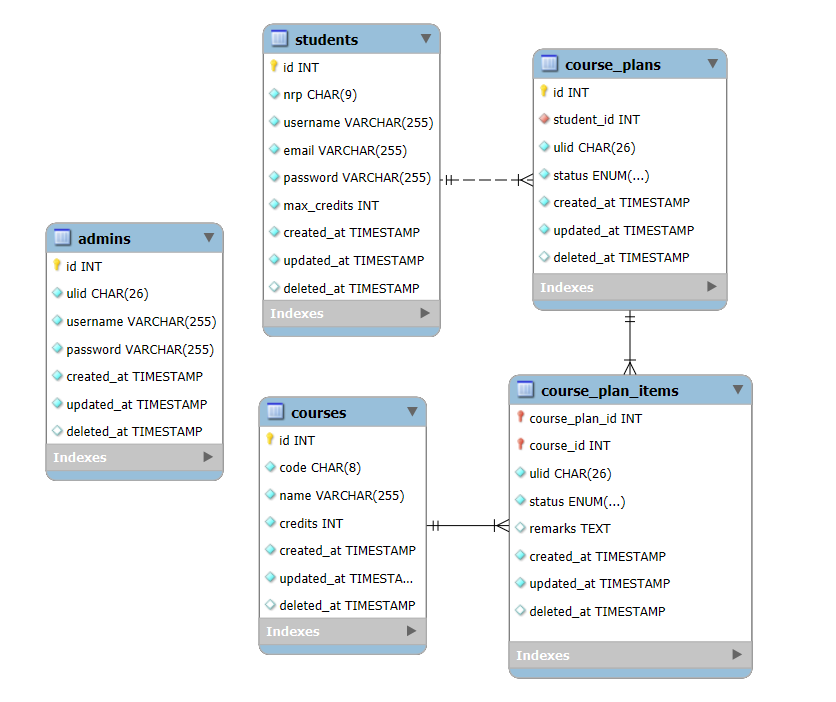
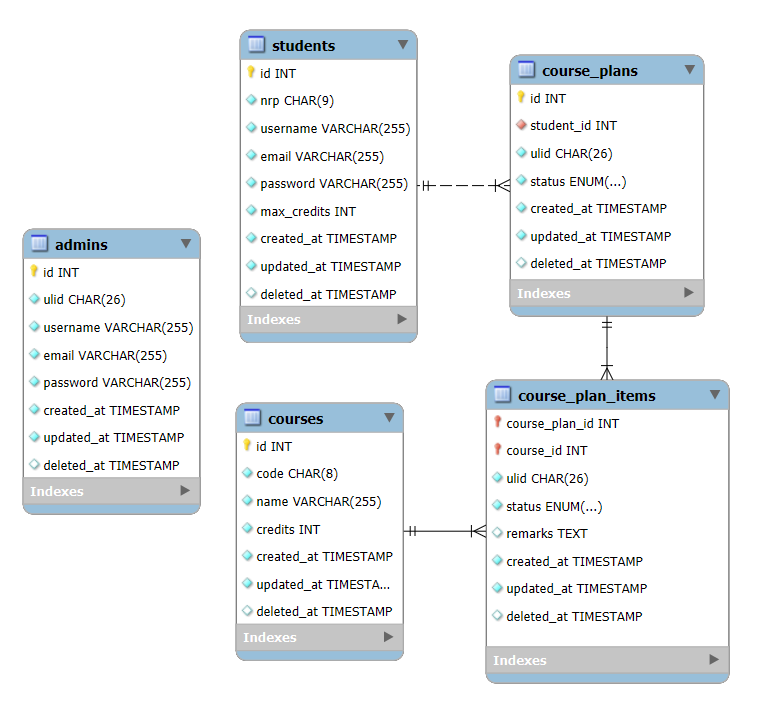
[Database] Add email for admins table

diff --git a/endpoint/dto/response/admin_response_dto.go b/endpoint/dto/response/admin_response_dto.go
@@ -1,0 +1,23 @@
+package dto
+
+import "yosimaril/CourseEnrollment/constants"
+
+type CreateAdminResponseDto struct {
+	BaseIdDto
+
+	Ulid string `json:"ulid" binding:"required"`
+	Username   string             `json:"username" binding:"required"`
+	Email      string             `json:"email" binding:"required,email"`
+
+	BaseTimestampDto
+}
+
+type UpdateAdminResponseDto struct {
+	BaseIdDto
+
+	Ulid string `json:"ulid" binding:"required"`
+	Username   *string            `json:"username"`
+	Email      *string            `json:"email" binding:"email"`
+
+	BaseTimestampDto
+}
